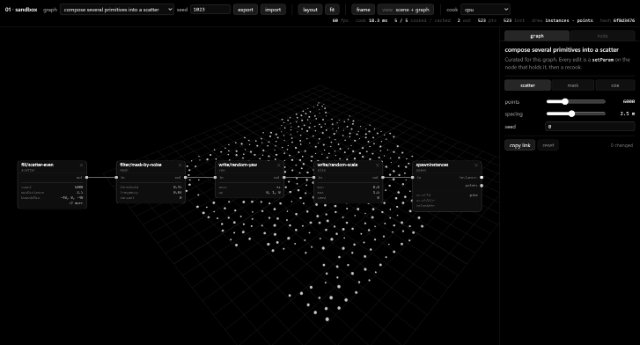
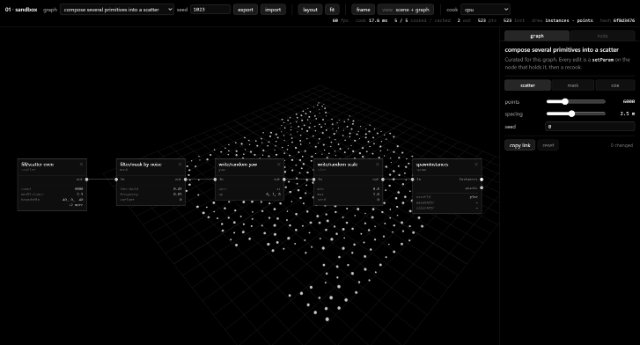
sandbox: square node boxes, one padding number, a green selected border
Three things, all in the box.

SQUARE. The `rx` goes, and so does the halo ring that used to sit outside
a selected node — selection is carried by the border's colour alone now,
so the shape a node has when selected is the shape it has the rest of the
time.

PADDING FROM ONE NUMBER. The title sat 5 units under the top edge while
everything beside it sat 9 from the left, because SVG text is placed by
its BASELINE and the baselines had been typed in directly. `PAD` is now a
constant and `TITLE_Y` / `ID_Y` / `HEADER_H` derive from it, so the cap
top lands exactly `PAD` below the edge. The header adds two below the id
baseline rather than PAD, since descenders drop past it and measuring
from the baseline alone leaves a "spawn" or a "yaw" visibly tighter than
the title above. The close glyph moves onto the title's baseline, which
is what reads as aligned, and the param band's insets come off PAD too.

Measured from rendered pixels rather than from getBBox, which returns the
text LAYOUT box (font ascent to descent) and reports a gap several units
smaller than the visible one: top 9.4, left 9, right 9, bottom 9-11.
Before, the top was 5.3.

SELECTED IS #00FF00. The one hue on a page that has none — which is what
makes it work: "which node am I editing" is answered from across the
canvas by something that cannot be read as a lightness. The token block
now records it as a deliberate exception rather than claiming zero hue.

npm test: 117 files, 2932 passed. Figures regenerated.

diff --git a/examples/01-sandbox/NodeBox.svelte b/examples/01-sandbox/NodeBox.svelte
@@ -7,7 +7,17 @@
    * previews under them. Drag/connect gestures are reported to the Canvas
    * via callbacks; hit circles over the pins keep the targets comfortable.
    */
-  import { HEADER_H, NODE_W, nodeHeight, paramBandY, paramRowY, pinRowY } from "./layout.js";
+  import {
+    HEADER_H,
+    ID_Y,
+    NODE_W,
+    PAD,
+    TITLE_Y,
+    nodeHeight,
+    paramBandY,
+    paramRowY,
+    pinRowY,
+  } from "./layout.js";
   import type { NodeView, ParamPreview } from "./model.js";
 
   let {
@@ -37,19 +47,13 @@
 </script>
 
 <g transform="translate({node.x}, {node.y})" class:selected>
-  <!-- Selection is a HALO, not a heavier border. A thicker stroke changes
-       the box's weight, so a selected node reads as a different kind of
-       node rather than as the one you happen to be editing; a ring drawn
-       outside the shape says "this one" without restating what it is.
-       Behind the body and non-interactive, so it never eats a click. -->
-  {#if selected}
-    <rect class="halo" x="-3" y="-3" width={NODE_W + 6} height={h + 6} rx="10" />
-  {/if}
+  <!-- Square. No `rx`, and no halo ring behind it: selection is carried by
+       the border's colour alone, so the shape a node has when selected is
+       the shape it has the rest of the time. -->
   <rect
     class="body"
     width={NODE_W}
     height={h}
-    rx="7"
     role="button"
     tabindex="-1"
     aria-label="node {node.id}"
@@ -59,12 +63,14 @@
     }}
   />
   <line class="sep" x1="0" y1={HEADER_H} x2={NODE_W} y2={HEADER_H} />
-  <text class="title" x="9" y="13">{node.label ?? node.type}</text>
-  <text class="nodeid" x="9" y="25">{node.id}</text>
+  <text class="title" x={PAD} y={TITLE_Y}>{node.label ?? node.type}</text>
+  <text class="nodeid" x={PAD} y={ID_Y}>{node.id}</text>
+  <!-- Shares the title's baseline rather than being centred on the band:
+       two glyphs on one line is what reads as aligned. -->
   <text
     class="close"
-    x={NODE_W - 9}
-    y="14"
+    x={NODE_W - PAD}
+    y={TITLE_Y}
     role="button"
     tabindex="-1"
     aria-label="delete node {node.id}"
@@ -117,10 +123,12 @@
     <text class="pinlabel out" x={NODE_W - 10} y={pinRowY(i) + 3}>{pin.name}</text>
   {/each}
   {#if params.length > 0}
-    <line class="sep" x1="9" y1={paramBandY(node)} x2={NODE_W - 9} y2={paramBandY(node)} />
+    <line class="sep" x1={PAD} y1={paramBandY(node)} x2={NODE_W - PAD} y2={paramBandY(node)} />
     {#each params as p, i (p.key + p.value)}
-      <text class="pkey" x="9" y={paramRowY(node, i)}>{p.key}</text>
-      <text class="pval" class:field={p.field} x={NODE_W - 9} y={paramRowY(node, i)}>{p.value}</text>
+      <text class="pkey" x={PAD} y={paramRowY(node, i)}>{p.key}</text>
+      <text class="pval" class:field={p.field} x={NODE_W - PAD} y={paramRowY(node, i)}>
+        {p.value}
+      </text>
     {/each}
   {/if}
 </g>
@@ -137,13 +145,6 @@
   }
   .selected .body {
     stroke: var(--sb-select);
-  }
-  .halo {
-    fill: none;
-    stroke: var(--sb-select);
-    stroke-width: 1.5;
-    opacity: 0.4;
-    pointer-events: none;
   }
   .sep {
     stroke: var(--sb-rule);

diff --git a/examples/01-sandbox/layout.ts b/examples/01-sandbox/layout.ts
@@ -7,11 +7,46 @@ import type { EdgeView, NodeView } from "./model.js";
 
 /** Node box width in canvas units. */
 export const NODE_W = 168;
-/** Header band height (type name + id). */
-export const HEADER_H = 30;
+
+/**
+ * Inner padding, and the same number on every side.
+ *
+ * SVG text is positioned by its BASELINE, not by its box, so "9 from the
+ * top" is not `y = 9` — it is 9 plus the cap height of the face, and
+ * getting that wrong is what had the title sitting 5px under the edge
+ * while everything beside it sat 9 from the left. The baselines below are
+ * derived from this rather than typed in, so the padding is one number.
+ */
+export const PAD = 9;
+
+/** Cap height of the 11px title face, and of the 9px id face below it. */
+const TITLE_CAP = 8;
+/** Leading between the title baseline and the id baseline. */
+const TITLE_TO_ID = 12;
+
+/** Baseline of the type name. Its cap top lands exactly `PAD` from the top. */
+export const TITLE_Y = PAD + TITLE_CAP;
+/** Baseline of the node id, one line under the title. */
+export const ID_Y = TITLE_Y + TITLE_TO_ID;
+
+/**
+ * Header band height (type name + id).
+ *
+ * `PAD + 2` below the id's BASELINE rather than PAD: descenders drop
+ * about two units past it, so measuring from the baseline alone would
+ * leave the gap under a "spawn" or a "yaw" visibly tighter than the gap
+ * above the title.
+ */
+export const HEADER_H = ID_Y + PAD + 2;
+
 /** Vertical spacing between pin rows. */
 export const PIN_SPACING = 20;
-/** Padding below the last pin row. */
+/**
+ * Padding below the last row. Two less than `PAD` for the same reason the
+ * header adds two: this one is measured from a baseline that has the band
+ * gap above it, and 8 here is what puts the same 11 units under the last
+ * param row as sit under the id.
+ */
 export const PAD_BOTTOM = 8;
 /** Vertical spacing between param preview rows. */
 export const PARAM_SPACING = 13;

diff --git a/examples/01-sandbox/index.html b/examples/01-sandbox/index.html
@@ -19,10 +19,16 @@
      * button ends up 3px 12px in one place and 2px 8px in another and the
      * bar stops reading as one thing.
      *
-     * GREYSCALE, zero hue. Every value below is r == g == b, on pure
-     * black. Nothing here is a tint of anything: the page had a blue cast
-     * in its surfaces, its ink and its accents at once, and taking it out
-     * of only some of them would read as a mistake rather than a choice.
+     * GREYSCALE, zero hue — with ONE deliberate exception, `--sb-select`.
+     * Every other value below is r == g == b, on pure black. Nothing here
+     * is a tint of anything: the page had a blue cast in its surfaces, its
+     * ink and its accents at once, and taking it out of only some of them
+     * would read as a mistake rather than a choice.
+     *
+     * The exception earns itself by being the only one. On a page with no
+     * other hue, "which node am I editing" is answered from across the
+     * canvas by a colour that cannot be confused with a lightness — which
+     * is what the greyscale pass otherwise spent.
      *
      * WHAT REPLACES COLOUR. Three signals were carried by hue and now are
      * not, so each is carried by something else:
@@ -72,7 +78,7 @@
       --sb-k-geometry: #c4c4c4;
       --sb-k-value: #949494;
       --sb-k-any: #6a6a6a;
-      --sb-select: #ffffff;                 /* the node you are editing */
+      --sb-select: #00ff00;                 /* the node you are editing */
 
       /* tab bars — the sidebar's and the knob panel's, kept identical */
       --sb-tab: #101010;
